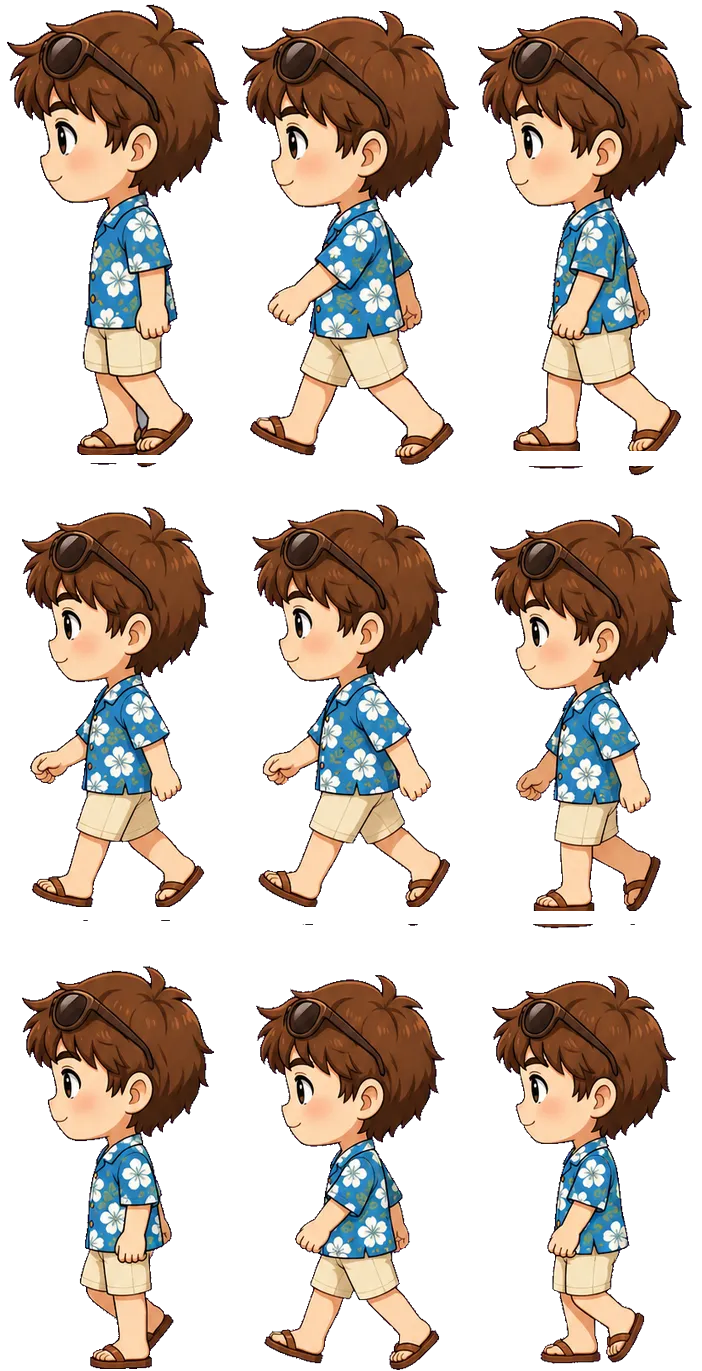
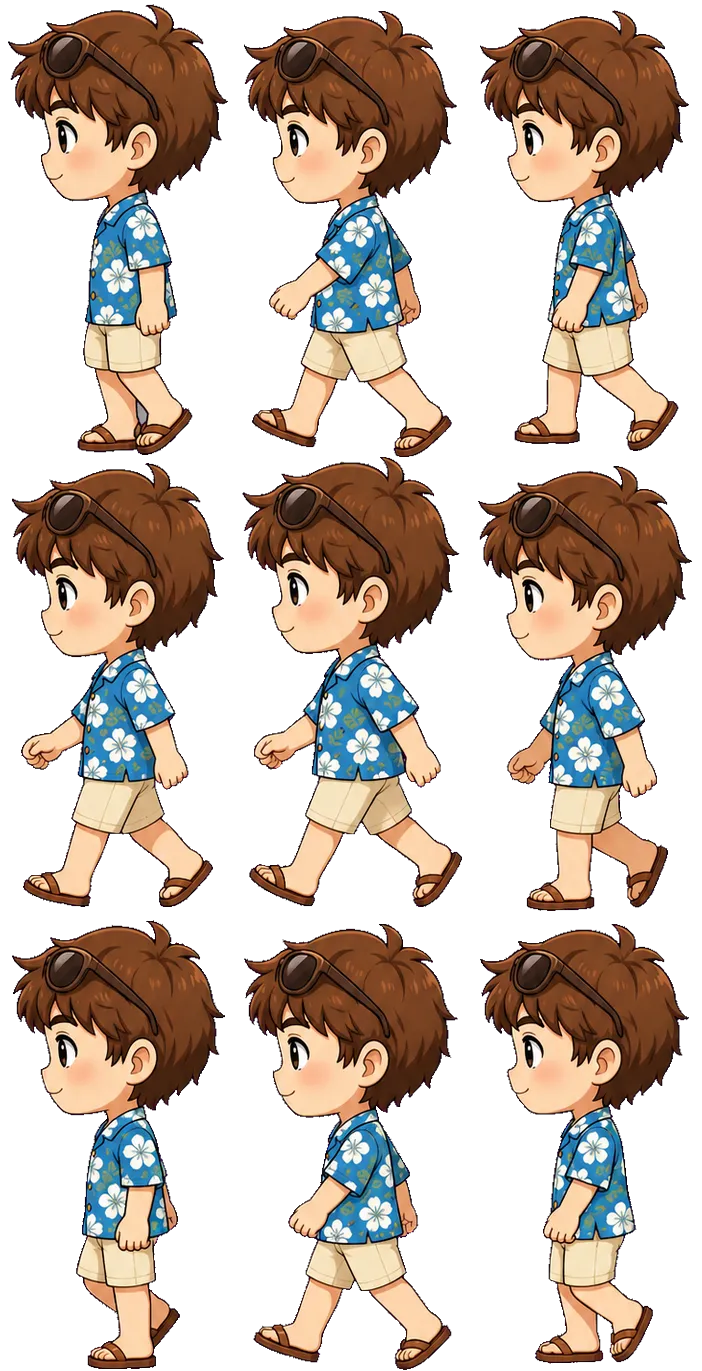
feat(shop): 服裝店全店真換裝 — 28套衣服全部買了馬上變走路造型
- 72 張新走路 sprite sheet（24 套 × 上下側）全自動流水線一次過零失敗
- 黑貓裝背面跨格線鞋底修復 + 男海灘風髮絲碎片清理（自適應切格線）
- EQUIP.body 全店化：28 件 shop:true、新增「原本造型」(basic) 當預設可換回小男孩
- 舊存檔移轉：預設 f_academic 轉真商品，沒買過自動回原本造型（shop/explore 兩端一致）
- realOutfitId 改資料驅動；美人魚/名牌包/珍珠項鍊/公事包 4 件維持純展示（派派定案）
- 走路圖 ?v=4、shop.js v74、explore.js v102、蘇格拉底日誌 v0.13
- Codex 兩輪審查（P1×2 已修 + 第二輪 LGTM）、playwright 39 項檢查全過

diff --git a/village-web/shop.js b/village-web/shop.js
@@ -79,8 +79,11 @@
     if (a.indexOf(id) < 0) { a.push(id); try { localStorage.setItem(OUTFIT_OWN_KEY, JSON.stringify(a)); } catch (e) {} }
   }
   function realOutfitId(it) {
-    const m = /outfits\/(m_beach|m_biker|f_beach|f_blackcat)\.webp$/.exec(it.img || "");
-    return m ? m[1] : null;
+    // 資料驅動：EQUIP.body 裡標 shop:true 的造型＝真商品（美人魚/配件類沒入表，自動維持純展示）
+    const m = /outfits\/([a-z0-9_]+)\.webp$/.exec(it.img || "");
+    if (!m) return null;
+    const eq = EQUIP.body.items.find((x) => x.id === m[1] && x.shop);
+    return eq ? m[1] : null;
   }
 
   function renderGrid(ov, shop, cat) {
@@ -1987,20 +1990,38 @@
   const EQUIP = {
     // body=目前造型(衣服店買的)，顯示在左大立繪，不放右格；def=防禦加成
     // shop:true = 服裝店真商品（要買過才出現在更衣室；買了走路圖整套換，見 explore.js WALK_OUTFITS）
-    // ⚠ 第一項是 getEquip() 的預設值，shop 商品不能排第一
+    // ⚠ 第一項是 getEquip() 的預設值＝原本造型（藍帽小男孩），shop 商品不能排第一
+    // 美人魚/名牌包/珍珠項鍊/公事包 4 件派派定案跳過（配件類/魚尾不能走路），維持純展示不入此表
     body: { label: "造型", items: [
-      { id: "f_academic", img: "outfits/f_academic.webp", name: "學院風", def: 5 },
-      { id: "f_dress", img: "outfits/f_dress.webp", name: "洋裝", def: 4 },
-      { id: "f_elf", img: "outfits/f_elf.webp", name: "精靈裝", def: 6 },
-      { id: "f_kawaii", img: "outfits/f_kawaii.webp", name: "可愛風", def: 4 },
-      { id: "m_knight", img: "outfits/m_knight.webp", name: "騎士裝", def: 10 },
-      { id: "m_sports", img: "outfits/m_sports.webp", name: "運動服", def: 6 },
-      { id: "m_superhero", img: "outfits/m_superhero.webp", name: "英雄裝", def: 8 },
-      { id: "m_wizard_kid", img: "outfits/m_wizard_kid.webp", name: "小巫師", def: 7 },
-      { id: "m_beach", img: "outfits/m_beach.webp", name: "男 海灘風", def: 6, shop: true },
-      { id: "m_biker", img: "outfits/m_biker.webp", name: "男 機車服", def: 8, shop: true },
+      { id: "basic", img: "outfits/m_default.webp", name: "原本造型", def: 5 },
+      { id: "f_academic", img: "outfits/f_academic.webp", name: "女 學院風", def: 5, shop: true },
+      { id: "f_angel", img: "outfits/f_angel.webp", name: "女 天使裝", def: 7, shop: true },
       { id: "f_beach", img: "outfits/f_beach.webp", name: "女 海灘風", def: 6, shop: true },
       { id: "f_blackcat", img: "outfits/f_blackcat.webp", name: "女 黑貓裝", def: 8, shop: true },
+      { id: "f_bunny", img: "outfits/f_bunny.webp", name: "女 兔子裝", def: 5, shop: true },
+      { id: "f_dress", img: "outfits/f_dress.webp", name: "女 洋裝", def: 4, shop: true },
+      { id: "f_dress_pearl", img: "outfits/f_dress_pearl.webp", name: "女 珍珠洋裝", def: 5, shop: true },
+      { id: "f_elf", img: "outfits/f_elf.webp", name: "女 精靈裝", def: 6, shop: true },
+      { id: "f_kawaii", img: "outfits/f_kawaii.webp", name: "女 可愛風", def: 4, shop: true },
+      { id: "f_lady_full", img: "outfits/f_lady_full.webp", name: "女 淑女全套", def: 5, shop: true },
+      { id: "f_party_dress", img: "outfits/f_party_dress.webp", name: "女 派對洋裝", def: 5, shop: true },
+      { id: "f_reindeer", img: "outfits/f_reindeer.webp", name: "女 馴鹿裝", def: 6, shop: true },
+      { id: "f_streetwear", img: "outfits/f_streetwear.webp", name: "女 街頭風", def: 7, shop: true },
+      { id: "m_beach", img: "outfits/m_beach.webp", name: "男 海灘風", def: 6, shop: true },
+      { id: "m_biker", img: "outfits/m_biker.webp", name: "男 機車服", def: 8, shop: true },
+      { id: "m_casual", img: "outfits/m_casual.webp", name: "男 休閒風", def: 5, shop: true },
+      { id: "m_dino", img: "outfits/m_dino.webp", name: "男 Dino", def: 6, shop: true },
+      { id: "m_knight", img: "outfits/m_knight.webp", name: "男 Knight", def: 10, shop: true },
+      { id: "m_santa", img: "outfits/m_santa.webp", name: "男 Santa", def: 6, shop: true },
+      { id: "m_sports", img: "outfits/m_sports.webp", name: "男 Sports", def: 6, shop: true },
+      { id: "m_streetwear", img: "outfits/m_streetwear.webp", name: "男 街頭風", def: 5, shop: true },
+      { id: "m_suit_full", img: "outfits/m_suit_full.webp", name: "男 Suit Full", def: 7, shop: true },
+      { id: "m_suit_jacket", img: "outfits/m_suit_jacket.webp", name: "男 Suit Jacket", def: 5, shop: true },
+      { id: "m_suit_pants", img: "outfits/m_suit_pants.webp", name: "男 Suit Pants", def: 4, shop: true },
+      { id: "m_suit_set", img: "outfits/m_suit_set.webp", name: "男 Suit Set", def: 6, shop: true },
+      { id: "m_superhero", img: "outfits/m_superhero.webp", name: "男 Superhero", def: 8, shop: true },
+      { id: "m_vampire", img: "outfits/m_vampire.webp", name: "男 Vampire", def: 7, shop: true },
+      { id: "m_wizard_kid", img: "outfits/m_wizard_kid.webp", name: "男 Wizard Kid", def: 7, shop: true },
     ] },
     hat: { label: "帽子", items: [
       { id: "hat_student", img: "equip/hat_student.webp", name: "學生帽", hp: 20 },
@@ -2072,6 +2093,9 @@
     let s = {};
     try { const p = JSON.parse(localStorage.getItem(EQ_KEY) || "{}"); if (p && typeof p === "object") s = p; } catch (e) {}
     EQ_ALL.forEach((cat) => { if (!EQUIP[cat].items.some((it) => it.id === s[cat])) s[cat] = EQUIP[cat].items[0].id; });
+    // 移轉防呆：穿著的造型是真商品但沒買過（舊存檔預設 f_academic 轉真商品）→ 回原本造型
+    const bIt = EQUIP.body.items.find((it) => it.id === s.body);
+    if (bIt && bIt.shop && ownedOutfits().indexOf(bIt.id) < 0) s.body = EQUIP.body.items[0].id;
     return s;
   }
   function eqItem(cat, id) { return EQUIP[cat].items.find((it) => it.id === id) || EQUIP[cat].items[0]; }

diff --git a/village-web/explore.js b/village-web/explore.js
@@ -11,18 +11,28 @@ function _qParam(name) {
   try { return new URLSearchParams(window.location.search).get(name); } catch (e) { return null; }
 }
 
-// 走路造型（服裝店真換裝）：買了這 4 套，走路圖整套換人；不在表內＝預設小男孩
+// 走路造型（服裝店真換裝）：買了這 28 套，走路圖整套換人；不在表內＝預設小男孩
 // 圖檔尺寸/幀數跟 player1/2/3 完全相同 → 沿用 config 的 frame_width/height
-const WALK_OUTFITS = {
-  m_beach:    { side: "walk_m_beach_side.webp",    down: "walk_m_beach_down.webp",    up: "walk_m_beach_up.webp" },
-  m_biker:    { side: "walk_m_biker_side.webp",    down: "walk_m_biker_down.webp",    up: "walk_m_biker_up.webp" },
-  f_beach:    { side: "walk_f_beach_side.webp",    down: "walk_f_beach_down.webp",    up: "walk_f_beach_up.webp" },
-  f_blackcat: { side: "walk_f_blackcat_side.webp", down: "walk_f_blackcat_down.webp", up: "walk_f_blackcat_up.webp" },
-};
+// （美人魚/名牌包/珍珠項鍊/公事包 4 件跳過＝純展示，派派 6/13 定案）
+const WALK_OUTFIT_IDS = [
+  "f_academic", "f_angel", "f_beach", "f_blackcat", "f_bunny", "f_dress", "f_dress_pearl",
+  "f_elf", "f_kawaii", "f_lady_full", "f_party_dress", "f_reindeer", "f_streetwear",
+  "m_beach", "m_biker", "m_casual", "m_dino", "m_knight", "m_santa", "m_sports",
+  "m_streetwear", "m_suit_full", "m_suit_jacket", "m_suit_pants", "m_suit_set",
+  "m_superhero", "m_vampire", "m_wizard_kid",
+];
+const WALK_OUTFITS = {};
+WALK_OUTFIT_IDS.forEach((id) => {
+  WALK_OUTFITS[id] = { side: "walk_" + id + "_side.webp", down: "walk_" + id + "_down.webp", up: "walk_" + id + "_up.webp" };
+});
 function walkOutfitCurrent() {
   try {
     const body = (JSON.parse(localStorage.getItem("village_equip") || "{}") || {}).body;
-    if (WALK_OUTFITS[body]) return { id: body, sheets: WALK_OUTFITS[body] };
+    if (WALK_OUTFITS[body]) {
+      // 要真的買過才套造型（舊存檔預設 f_academic 轉真商品後沒買過 → 走預設小男孩，跟 shop.js getEquip 移轉一致）
+      const own = JSON.parse(localStorage.getItem("village_outfits_owned") || "[]");
+      if (Array.isArray(own) && own.indexOf(body) >= 0) return { id: body, sheets: WALK_OUTFITS[body] };
+    }
   } catch (e) {}
   return { id: "default", sheets: null };
 }
@@ -143,9 +153,9 @@ class ExploreScene extends Phaser.Scene {
     const ow = oc.sheets;
     // 紀錄這批 texture 實際載的是哪套造型（換裝對帳用，texture 是 game 全域所以放 window）
     if (!this.textures.exists("hero")) window.__walkOutfitApplied = oc.id;
-    if (!this.textures.exists("hero"))      this.load.spritesheet("hero",      this.assetBase + (ow ? ow.side : ps.side.image) + "?v=3", { frameWidth: ps.side.frame_width, frameHeight: ps.side.frame_height });
-    if (!this.textures.exists("hero_down")) this.load.spritesheet("hero_down", this.assetBase + (ow ? ow.down : ps.down.image) + "?v=3", { frameWidth: ps.down.frame_width, frameHeight: ps.down.frame_height });
-    if (!this.textures.exists("hero_up"))   this.load.spritesheet("hero_up",   this.assetBase + (ow ? ow.up   : ps.up.image)   + "?v=3", { frameWidth: ps.up.frame_width,   frameHeight: ps.up.frame_height });
+    if (!this.textures.exists("hero"))      this.load.spritesheet("hero",      this.assetBase + (ow ? ow.side : ps.side.image) + "?v=4", { frameWidth: ps.side.frame_width, frameHeight: ps.side.frame_height });
+    if (!this.textures.exists("hero_down")) this.load.spritesheet("hero_down", this.assetBase + (ow ? ow.down : ps.down.image) + "?v=4", { frameWidth: ps.down.frame_width, frameHeight: ps.down.frame_height });
+    if (!this.textures.exists("hero_up"))   this.load.spritesheet("hero_up",   this.assetBase + (ow ? ow.up   : ps.up.image)   + "?v=4", { frameWidth: ps.up.frame_width,   frameHeight: ps.up.frame_height });
 
     // NPC sprites（每隻 NPC 可帶自己的 side/down/up；沒給就 fallback 用 hero）
     if (Array.isArray(config.npcs)) {
@@ -1286,9 +1296,9 @@ window.applyWalkOutfit = function (sceneArg) {
   // 第一階段：先載到暫存 key，玩家照常顯示舊造型（不能先刪 hero——畫面上還在用，會 glTexture 噴錯）
   const SWAP = ["hero_swap_side", "hero_swap_down", "hero_swap_up"];
   SWAP.forEach((k) => { if (sc.textures.exists(k)) sc.textures.remove(k); });
-  sc.load.spritesheet("hero_swap_side", sc.assetBase + files.hero      + "?v=3", { frameWidth: ps.side.frame_width, frameHeight: ps.side.frame_height });
-  sc.load.spritesheet("hero_swap_down", sc.assetBase + files.hero_down + "?v=3", { frameWidth: ps.down.frame_width, frameHeight: ps.down.frame_height });
-  sc.load.spritesheet("hero_swap_up",   sc.assetBase + files.hero_up   + "?v=3", { frameWidth: ps.up.frame_width,   frameHeight: ps.up.frame_height });
+  sc.load.spritesheet("hero_swap_side", sc.assetBase + files.hero      + "?v=4", { frameWidth: ps.side.frame_width, frameHeight: ps.side.frame_height });
+  sc.load.spritesheet("hero_swap_down", sc.assetBase + files.hero_down + "?v=4", { frameWidth: ps.down.frame_width, frameHeight: ps.down.frame_height });
+  sc.load.spritesheet("hero_swap_up",   sc.assetBase + files.hero_up   + "?v=4", { frameWidth: ps.up.frame_width,   frameHeight: ps.up.frame_height });
   sc.load.once("complete", () => {
     if (gen !== sc._outfitGen) return;   // restart 已重置狀態，殘留回呼不准碰新場景（create 端會自癒補套）
     const done = (okId) => {

diff --git a/village-web/index.html b/village-web/index.html
@@ -44,8 +44,8 @@
 <div id="map-fade"></div>
 <script src="https://cdn.jsdelivr.net/npm/phaser@3.80.1/dist/phaser.min.js"></script>
 <script src="https://cdn.jsdelivr.net/npm/phaser3-rex-plugins@1.1.84/dist/rexvirtualjoystickplugin.min.js"></script>
-<script src="shop.js?v=73"></script>
+<script src="shop.js?v=74"></script>
 <script src="farm.js?v=13"></script>
-<script src="explore.js?v=100"></script>
+<script src="explore.js?v=102"></script>
 </body>
 </html>
